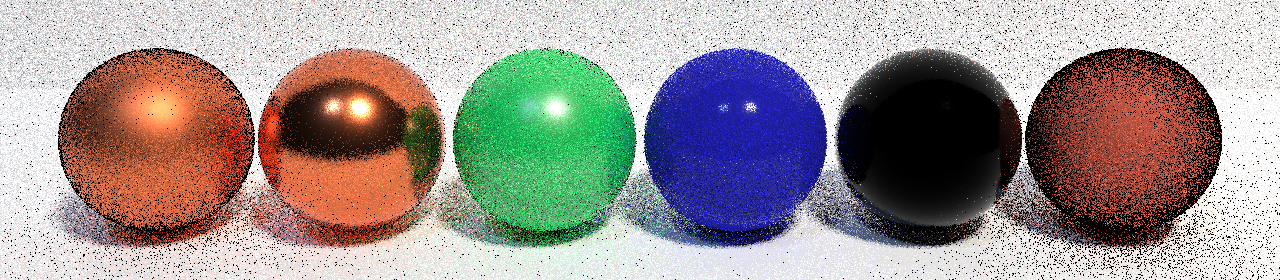
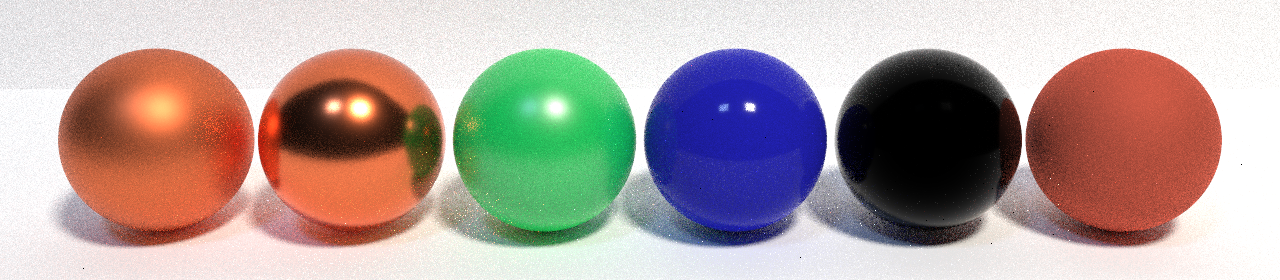
Got GGX working!

diff --git a/homework-1/OptiXTracer.cpp b/homework-1/OptiXTracer.cpp
@@ -426,7 +426,7 @@ void OptiXTracer::InitSBT(const Scene & scene)
 	hg_sbts.resize(numRecs);
 
 	int idx = 0;
-
+	int primitiveIndex = 0;
 
 	std::list<Sphere>::const_iterator it3;
 	for (it3 = scene.spheres.begin(); it3 != scene.spheres.end(); ++it3)
@@ -435,6 +435,7 @@ void OptiXTracer::InitSBT(const Scene & scene)
 		
 		hg_sbts[idx] = {};
 		hg_sbts[idx].data.primativeType = SPHERE;
+		hg_sbts[idx].data.index = primitiveIndex;
 		hg_sbts[idx].data.sphere.radius = sphere.radius;
 		hg_sbts[idx].data.sphere.center = vtf3(sphere.position);
 		PopulateHitGroupRecord(hg_sbts[idx], sphere);
@@ -445,9 +446,10 @@ void OptiXTracer::InitSBT(const Scene & scene)
 		memcpy(&hg_sbts[idx], &hg_sbts[idx - 1], hitgroup_record_size);
 		OPTIX_CHECK(optixSbtRecordPackHeader(hitgroup_prog_occlusion, &hg_sbts[idx]));
 		idx++;
+		primitiveIndex++;
 	}
 
-
+	primitiveIndex = 0;
 	std::list<Tri>::const_iterator it2;
 	for (it2 = scene.tris.begin(); it2 != scene.tris.end(); ++it2) 
 	{
@@ -455,6 +457,7 @@ void OptiXTracer::InitSBT(const Scene & scene)
 		
 		hg_sbts[idx] = {};
 		hg_sbts[idx].data.primativeType = TRIANGLE;
+		hg_sbts[idx].data.index = primitiveIndex;
 		hg_sbts[idx].data.verticies[0] = vtf3(scene.verticies[tri.one]);
 		hg_sbts[idx].data.verticies[1] = vtf3(scene.verticies[tri.two]);
 		hg_sbts[idx].data.verticies[2] = vtf3(scene.verticies[tri.three]);
@@ -466,9 +469,10 @@ void OptiXTracer::InitSBT(const Scene & scene)
 		memcpy(&hg_sbts[idx], &hg_sbts[idx - 1], hitgroup_record_size);
 		OPTIX_CHECK(optixSbtRecordPackHeader(hitgroup_prog_occlusion, &hg_sbts[idx]));
 		idx++;
+		primitiveIndex++;
 	}
 
-
+	primitiveIndex = 0;
 	std::list<QuadLight>::const_iterator it4;
 	for (it4 = scene.quadLights.begin(); it4 != scene.quadLights.end(); ++it4)
 	{
@@ -477,6 +481,7 @@ void OptiXTracer::InitSBT(const Scene & scene)
 		ql.Verticies(v1, v2, v3, v4);
 
 		hg_sbts[idx].data.primativeType = QUADLIGHT;
+		hg_sbts[idx].data.index = primitiveIndex;
 		hg_sbts[idx].data.verticies[0] = vtf3(v1);
 		hg_sbts[idx].data.verticies[1] = vtf3(v2);
 		hg_sbts[idx].data.verticies[2] = vtf3(v3);
@@ -492,6 +497,7 @@ void OptiXTracer::InitSBT(const Scene & scene)
 
 
 		hg_sbts[idx].data.primativeType = QUADLIGHT;
+		hg_sbts[idx].data.index = primitiveIndex;
 		hg_sbts[idx].data.verticies[0] = vtf3(v3);
 		hg_sbts[idx].data.verticies[1] = vtf3(v4);
 		hg_sbts[idx].data.verticies[2] = vtf3(v1);
@@ -503,7 +509,7 @@ void OptiXTracer::InitSBT(const Scene & scene)
 		memcpy(&hg_sbts[idx], &hg_sbts[idx - 1], hitgroup_record_size);
 		OPTIX_CHECK(optixSbtRecordPackHeader(hitgroup_prog_occlusion, &hg_sbts[idx]));
 		idx++;
-
+		primitiveIndex++;
 	}
 
 

diff --git a/homework-1/Types.h b/homework-1/Types.h
@@ -38,6 +38,13 @@ enum BRDFAlgorithm
 	GGX
 };
 
+enum NextEventEstimation
+{
+	OFF = 0,
+	ON = 1,
+	MIS = 2
+};
+
 struct Params
 {
 	uchar4* image;
@@ -82,6 +89,7 @@ struct DSphere
 struct HitGroupData
 {
 	int primativeType;
+	int index;
 	float3 diffuse, specular, emission;
 	float3 ambient;
 	float3 verticies[3];

diff --git a/homework-1/Scene.cpp b/homework-1/Scene.cpp
@@ -95,6 +95,8 @@ int Scene::Parse(LPCWSTR path)
 
 					if (onOff == "on")
 						nextEventEstimation = 1;
+					else if (onOff == "mis")
+						nextEventEstimation = 2;
 				}
 				else if (cmd == "russianroulette") {
 					std::string onOff;
